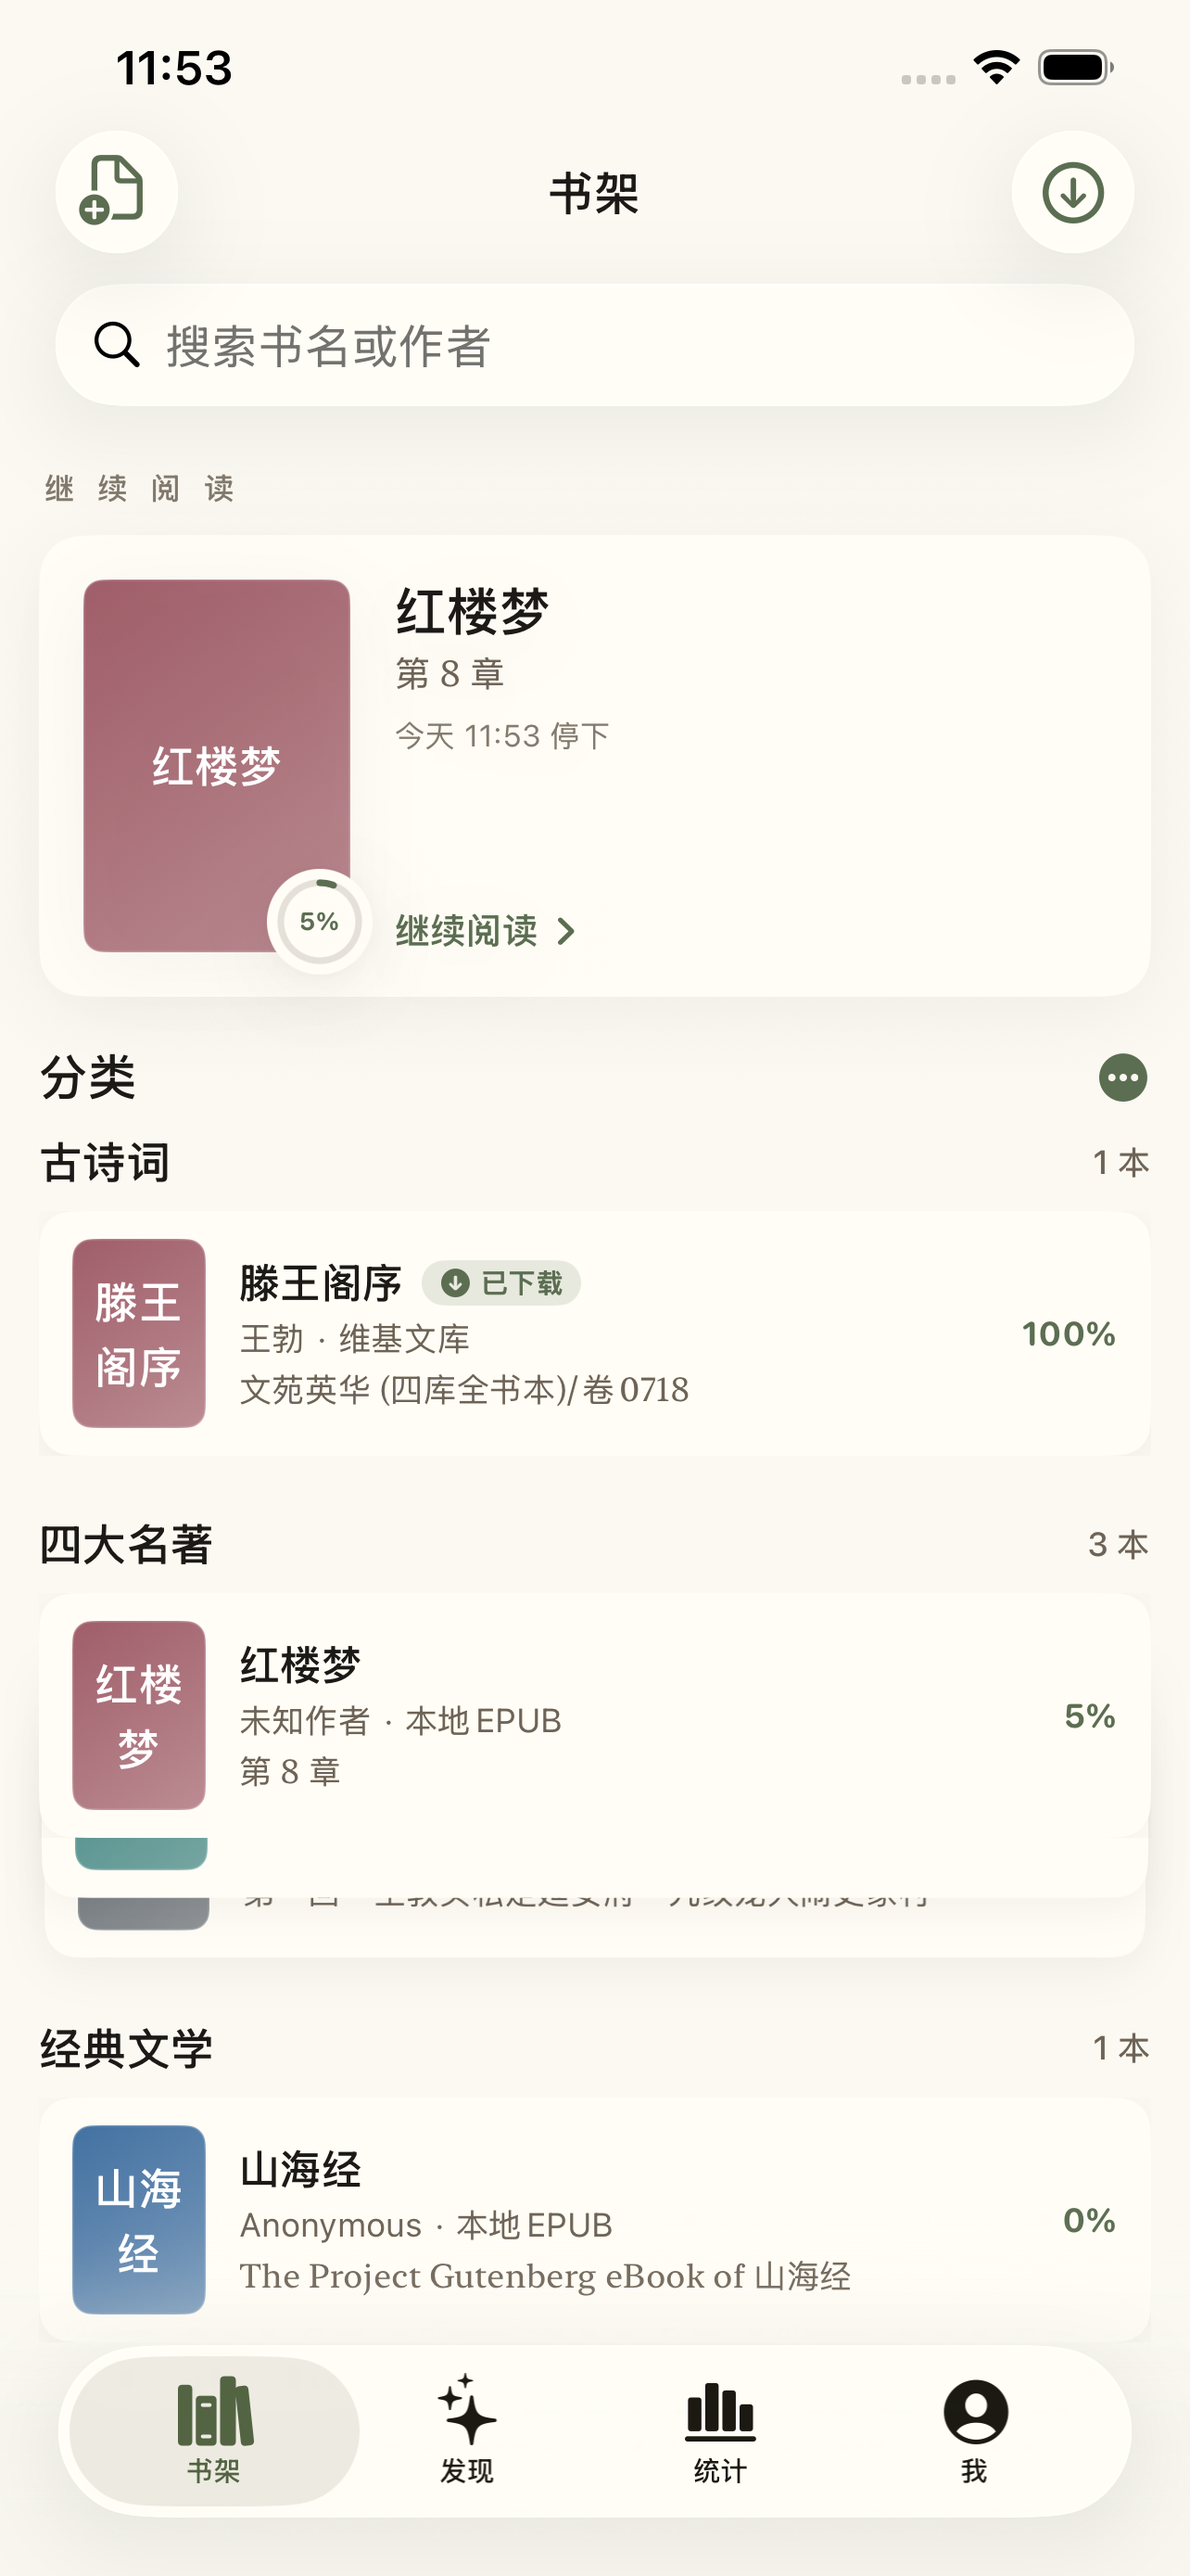
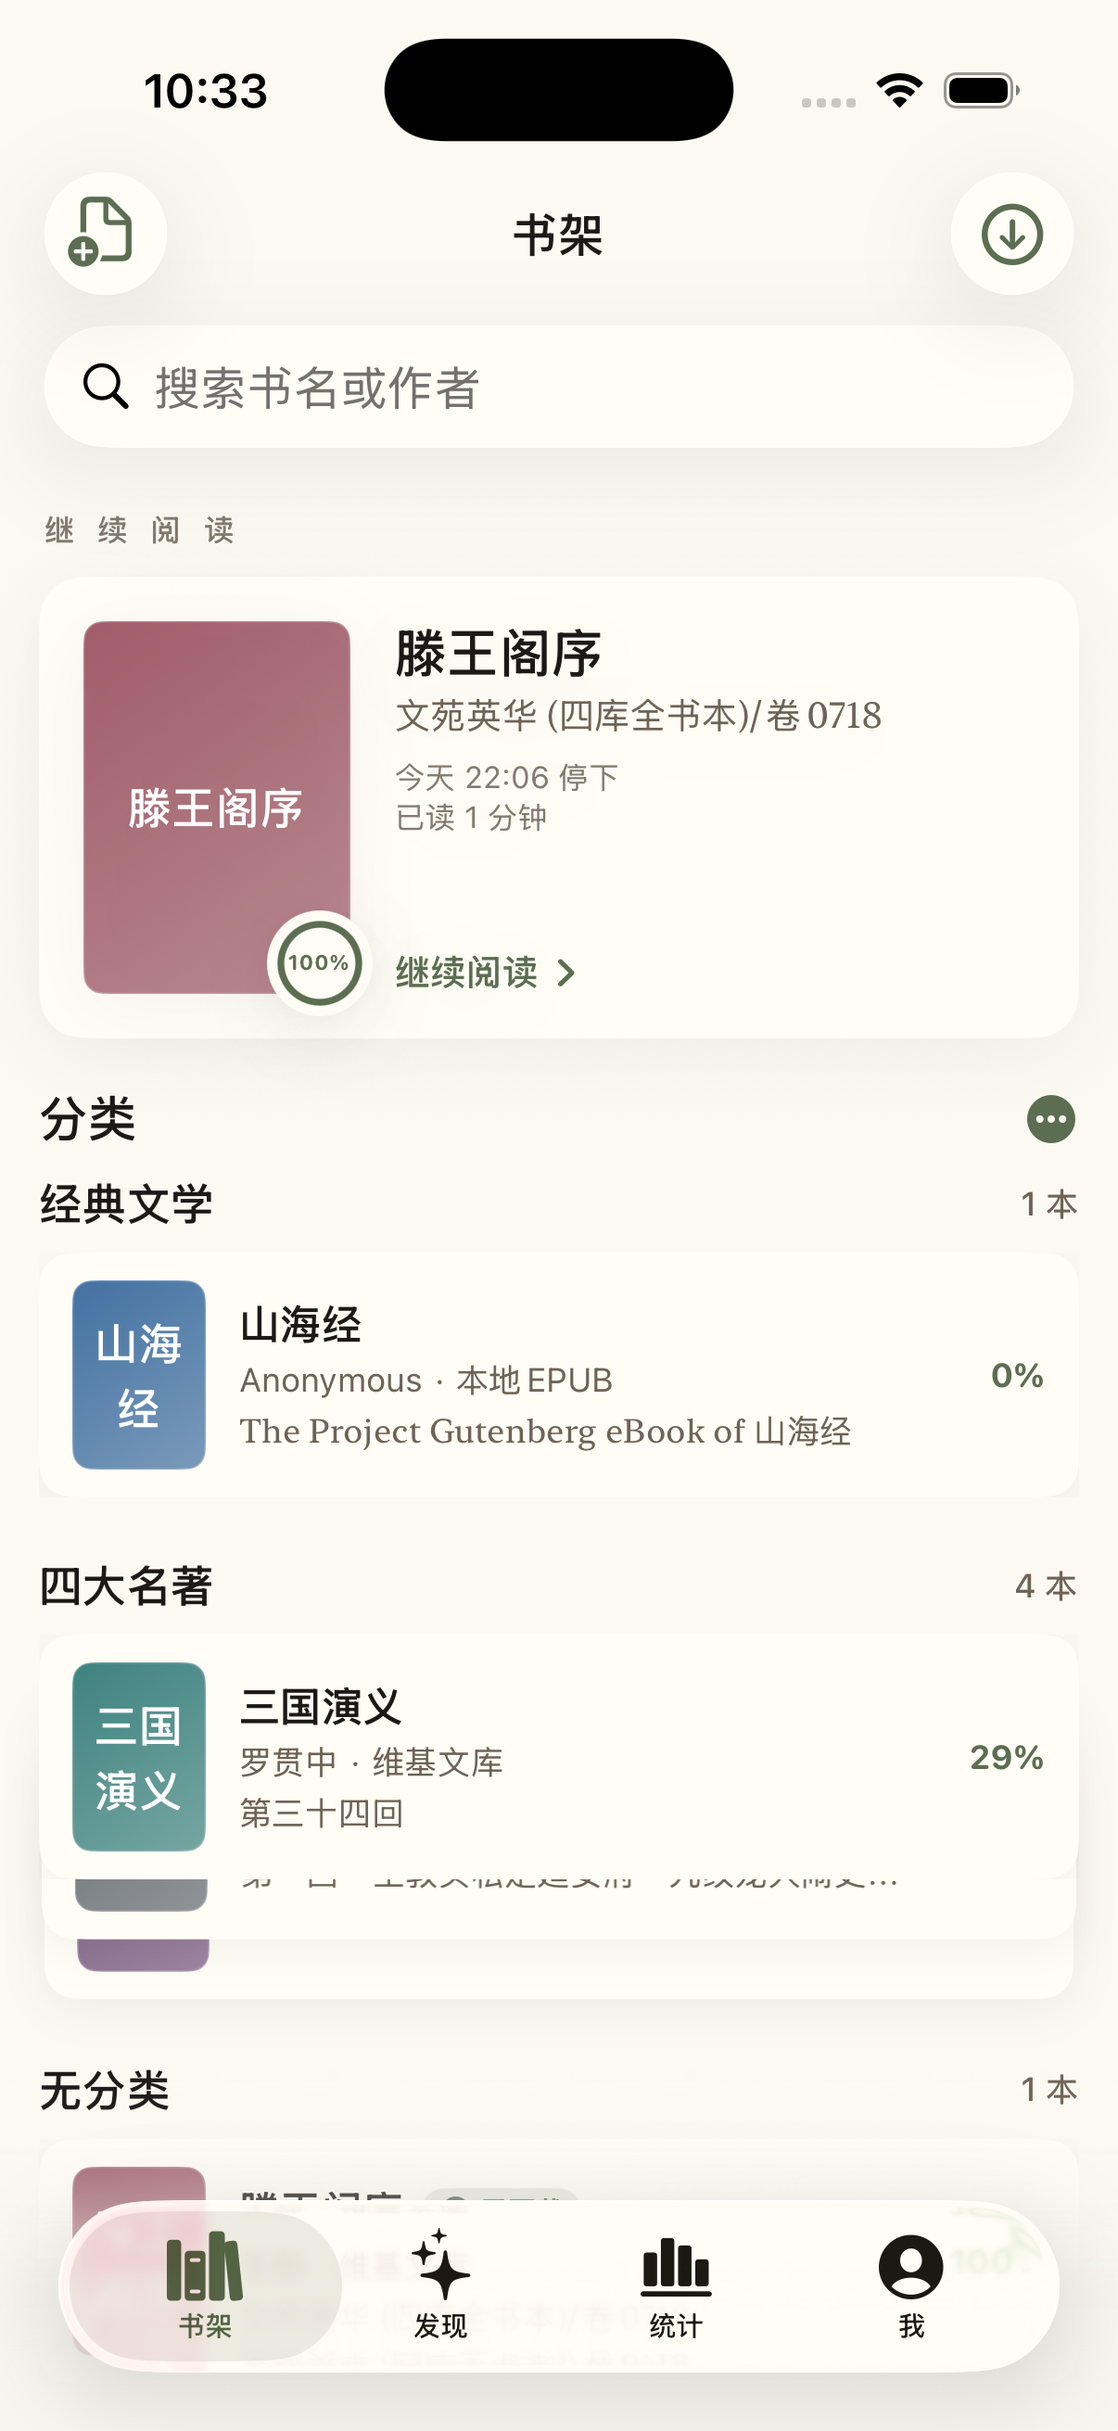
Add complaint page, refresh screenshots, drop leaked xcuserstate
- complaint.html: DMCA-style takedown + disclaimer page
- index.html, privacy.html: footer links to complaint page
- screenshots: refreshed with newer captures
- Remove lingyue.xcodeproj/* that leaked during initial deploy

diff --git a/complaint.html b/complaint.html
@@ -1,0 +1,102 @@
+<!DOCTYPE html>
+<html lang="zh-Hans">
+<head>
+  <meta charset="UTF-8">
+  <meta name="viewport" content="width=device-width, initial-scale=1.0">
+  <title>投诉与版权 · 灵阅书屋</title>
+
+  <link rel="preconnect" href="https://fonts.googleapis.com">
+  <link rel="preconnect" href="https://fonts.gstatic.com" crossorigin>
+  <link href="https://fonts.googleapis.com/css2?family=Noto+Serif+SC:wght@400;600&display=swap" rel="stylesheet">
+
+  <style>
+    :root {
+      --paper: #F4F1EC;
+      --ink: #2E2924;
+      --muted: #73685F;
+      --accent: #5C6E52;
+      --rule: rgba(46, 41, 36, 0.12);
+    }
+    * { box-sizing: border-box; }
+    html, body {
+      margin: 0; padding: 0;
+      background: var(--paper); color: var(--ink);
+      font-family: "Noto Serif SC", "Source Han Serif SC", "STSongti-SC", "Songti SC", "Hiragino Mincho ProN", "PingFang SC", -apple-system, system-ui, serif;
+      font-size: 17px; line-height: 1.85;
+      -webkit-font-smoothing: antialiased;
+    }
+    main {
+      max-width: 720px;
+      margin: 0 auto;
+      padding: 80px 28px 80px;
+    }
+    h1 {
+      font-size: 32px;
+      font-weight: 600;
+      margin: 0 0 8px;
+    }
+    .last-updated {
+      color: var(--muted);
+      font-size: 14px;
+      margin-bottom: 56px;
+    }
+    h2 {
+      font-size: 20px;
+      font-weight: 600;
+      margin: 48px 0 16px;
+    }
+    p { margin: 0 0 18px; }
+    a {
+      color: var(--accent);
+      border-bottom: 1px solid currentColor;
+      text-decoration: none;
+    }
+    .nav-back { font-size: 14px; color: var(--muted); }
+    .nav-back a { color: var(--muted); }
+    footer {
+      border-top: 1px solid var(--rule);
+      margin-top: 64px;
+      padding-top: 24px;
+      font-size: 14px;
+      color: var(--muted);
+    }
+    footer a { color: var(--muted); }
+  </style>
+</head>
+
+<body>
+  <main>
+    <p class="nav-back"><a href="index.html">← 返回首页</a></p>
+
+    <h1>投诉与版权</h1>
+    <p class="last-updated">最后更新:2026 年 5 月 24 日</p>
+
+    <h2>关于本 app 的内容来源</h2>
+    <p>灵阅书屋本身不提供任何书籍内容,也不内置任何预设的网站或书籍。用户可以:</p>
+    <p>• 导入本地保存在设备上的 TXT、EPUB、HTML 文件;<br>
+       • 通过内置浏览器访问用户自行添加的网站。</p>
+    <p>App 不对用户添加的网站或导入的文件进行任何形式的内容审核、筛选或转码。</p>
+
+    <h2>若您是版权所有者</h2>
+    <p>若您发现 app 的某位用户通过添加网站功能,访问到了侵害您合法权益的内容,而该网站本身亦未对您的权利做出妥善处理,我们建议:</p>
+    <p>• 直接联系该网站方,要求其下架侵权内容;或<br>
+       • 若您希望我们就 app 内某项默认行为采取改进措施,请通过 GitHub 提交 issue。</p>
+
+    <p>提交 issue 时请说明:</p>
+    <p>• 您的身份与联系方式<br>
+       • 涉嫌侵权内容的具体描述及所在网站<br>
+       • 您拥有相关权利的初步证据</p>
+
+    <p>提交地址:<a href="https://github.com/cynthiacui/Lingyue-Reader/issues">github.com/cynthiacui/Lingyue-Reader/issues</a></p>
+    <p>我们会在确认相关材料后,依法在合理时间内处理。</p>
+
+    <h2>免责声明</h2>
+    <p>灵阅书屋为个人学习与非商业用途设计。App 内访问的任何第三方网站,其内容版权与法律责任均由相应网站及添加该网站的用户承担。我们不对用户通过 app 访问、缓存或下载的任何第三方内容的合法性作出保证。</p>
+    <p>如因用户使用 app 访问第三方内容引发的任何纠纷,由该用户与相应权利方自行解决。</p>
+
+    <footer>
+      <p>© 2026 灵阅书屋 · <a href="index.html">首页</a> · <a href="privacy.html">隐私政策</a></p>
+    </footer>
+  </main>
+</body>
+</html>

diff --git a/index.html b/index.html
@@ -6,7 +6,6 @@
   <title>灵阅书屋 · Lingyue</title>
   <meta name="description" content="灵阅书屋 — 一个专为中文阅读打造的精致 iOS 阅读器。">
 
-  <!-- Noto Serif SC: closest free web equivalent to 思源宋体 -->
   <link rel="preconnect" href="https://fonts.googleapis.com">
   <link rel="preconnect" href="https://fonts.gstatic.com" crossorigin>
   <link href="https://fonts.googleapis.com/css2?family=Noto+Serif+SC:wght@400;600&display=swap" rel="stylesheet">
@@ -193,7 +192,7 @@
     </section>
 
     <footer>
-      <p>© 2026 灵阅书屋 · <a href="privacy.html">隐私政策</a></p>
+      <p>© 2026 灵阅书屋 · <a href="privacy.html">隐私政策</a> · <a href="complaint.html">投诉与版权</a></p>
     </footer>
   </main>
 </body>

diff --git a/privacy.html b/privacy.html
@@ -60,6 +60,7 @@
       font-size: 14px;
       color: var(--muted);
     }
+    footer a { color: var(--muted); }
   </style>
 </head>
 
@@ -99,7 +100,7 @@
     <p>关于本政策的疑问,请在 GitHub 上提交 issue:<a href="https://github.com/cynthiacui/Lingyue-Reader/issues">github.com/cynthiacui/Lingyue-Reader/issues</a></p>
 
     <footer>
-      <p>© 2026 灵阅书屋</p>
+      <p>© 2026 灵阅书屋 · <a href="index.html">首页</a> · <a href="complaint.html">投诉与版权</a></p>
     </footer>
   </main>
 </body>
